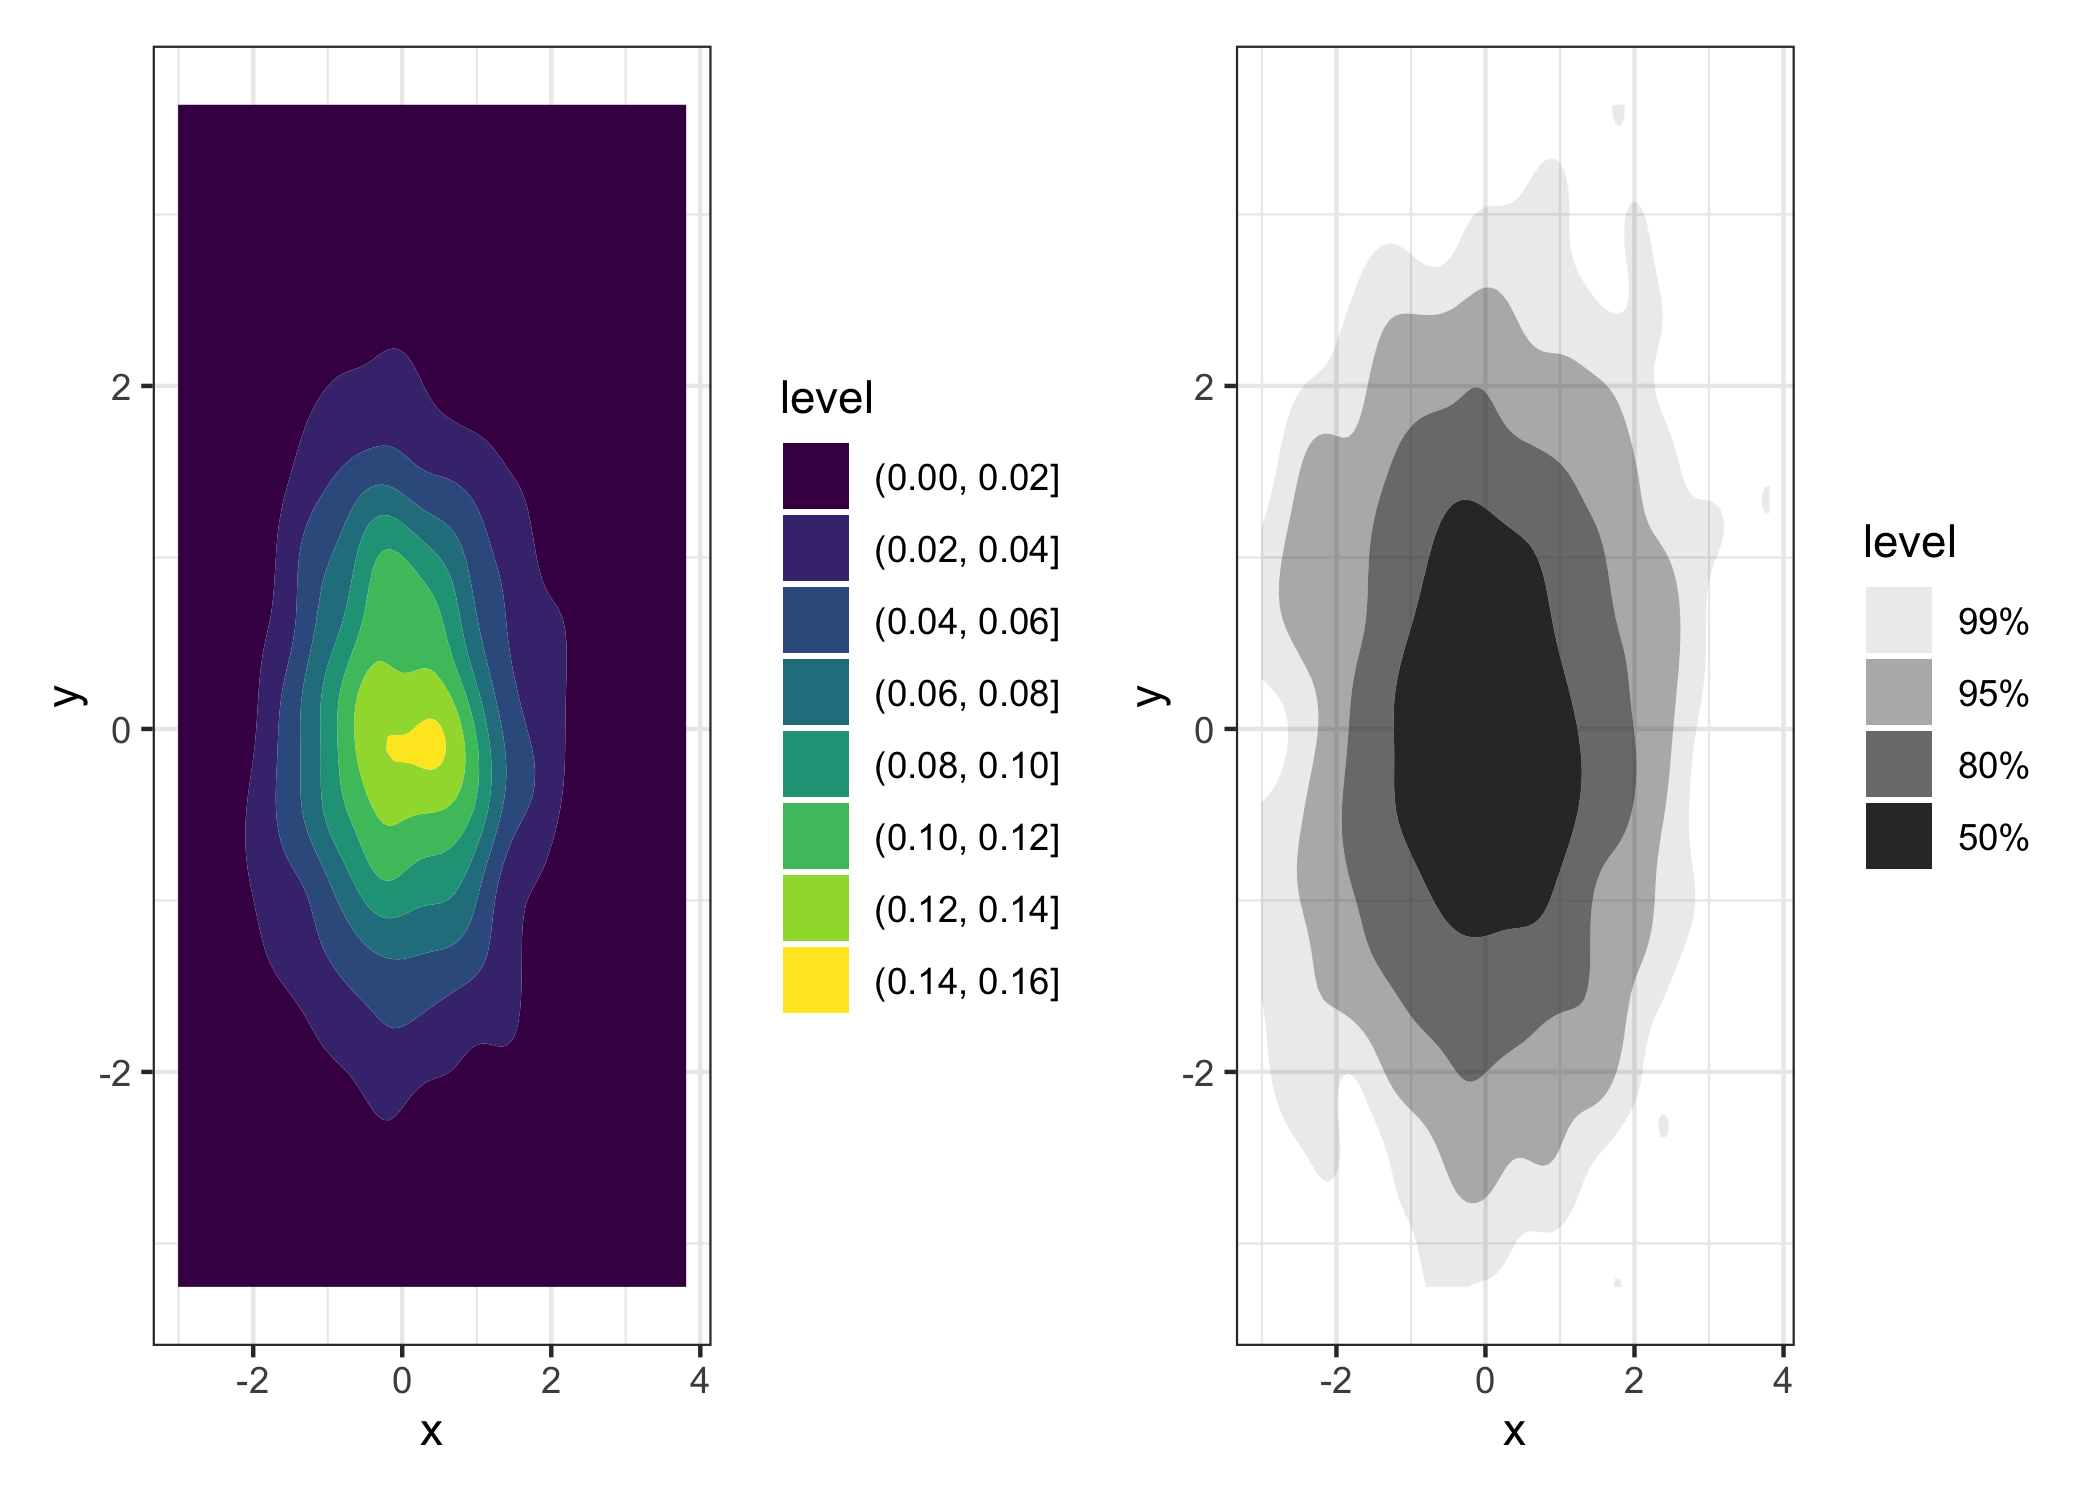
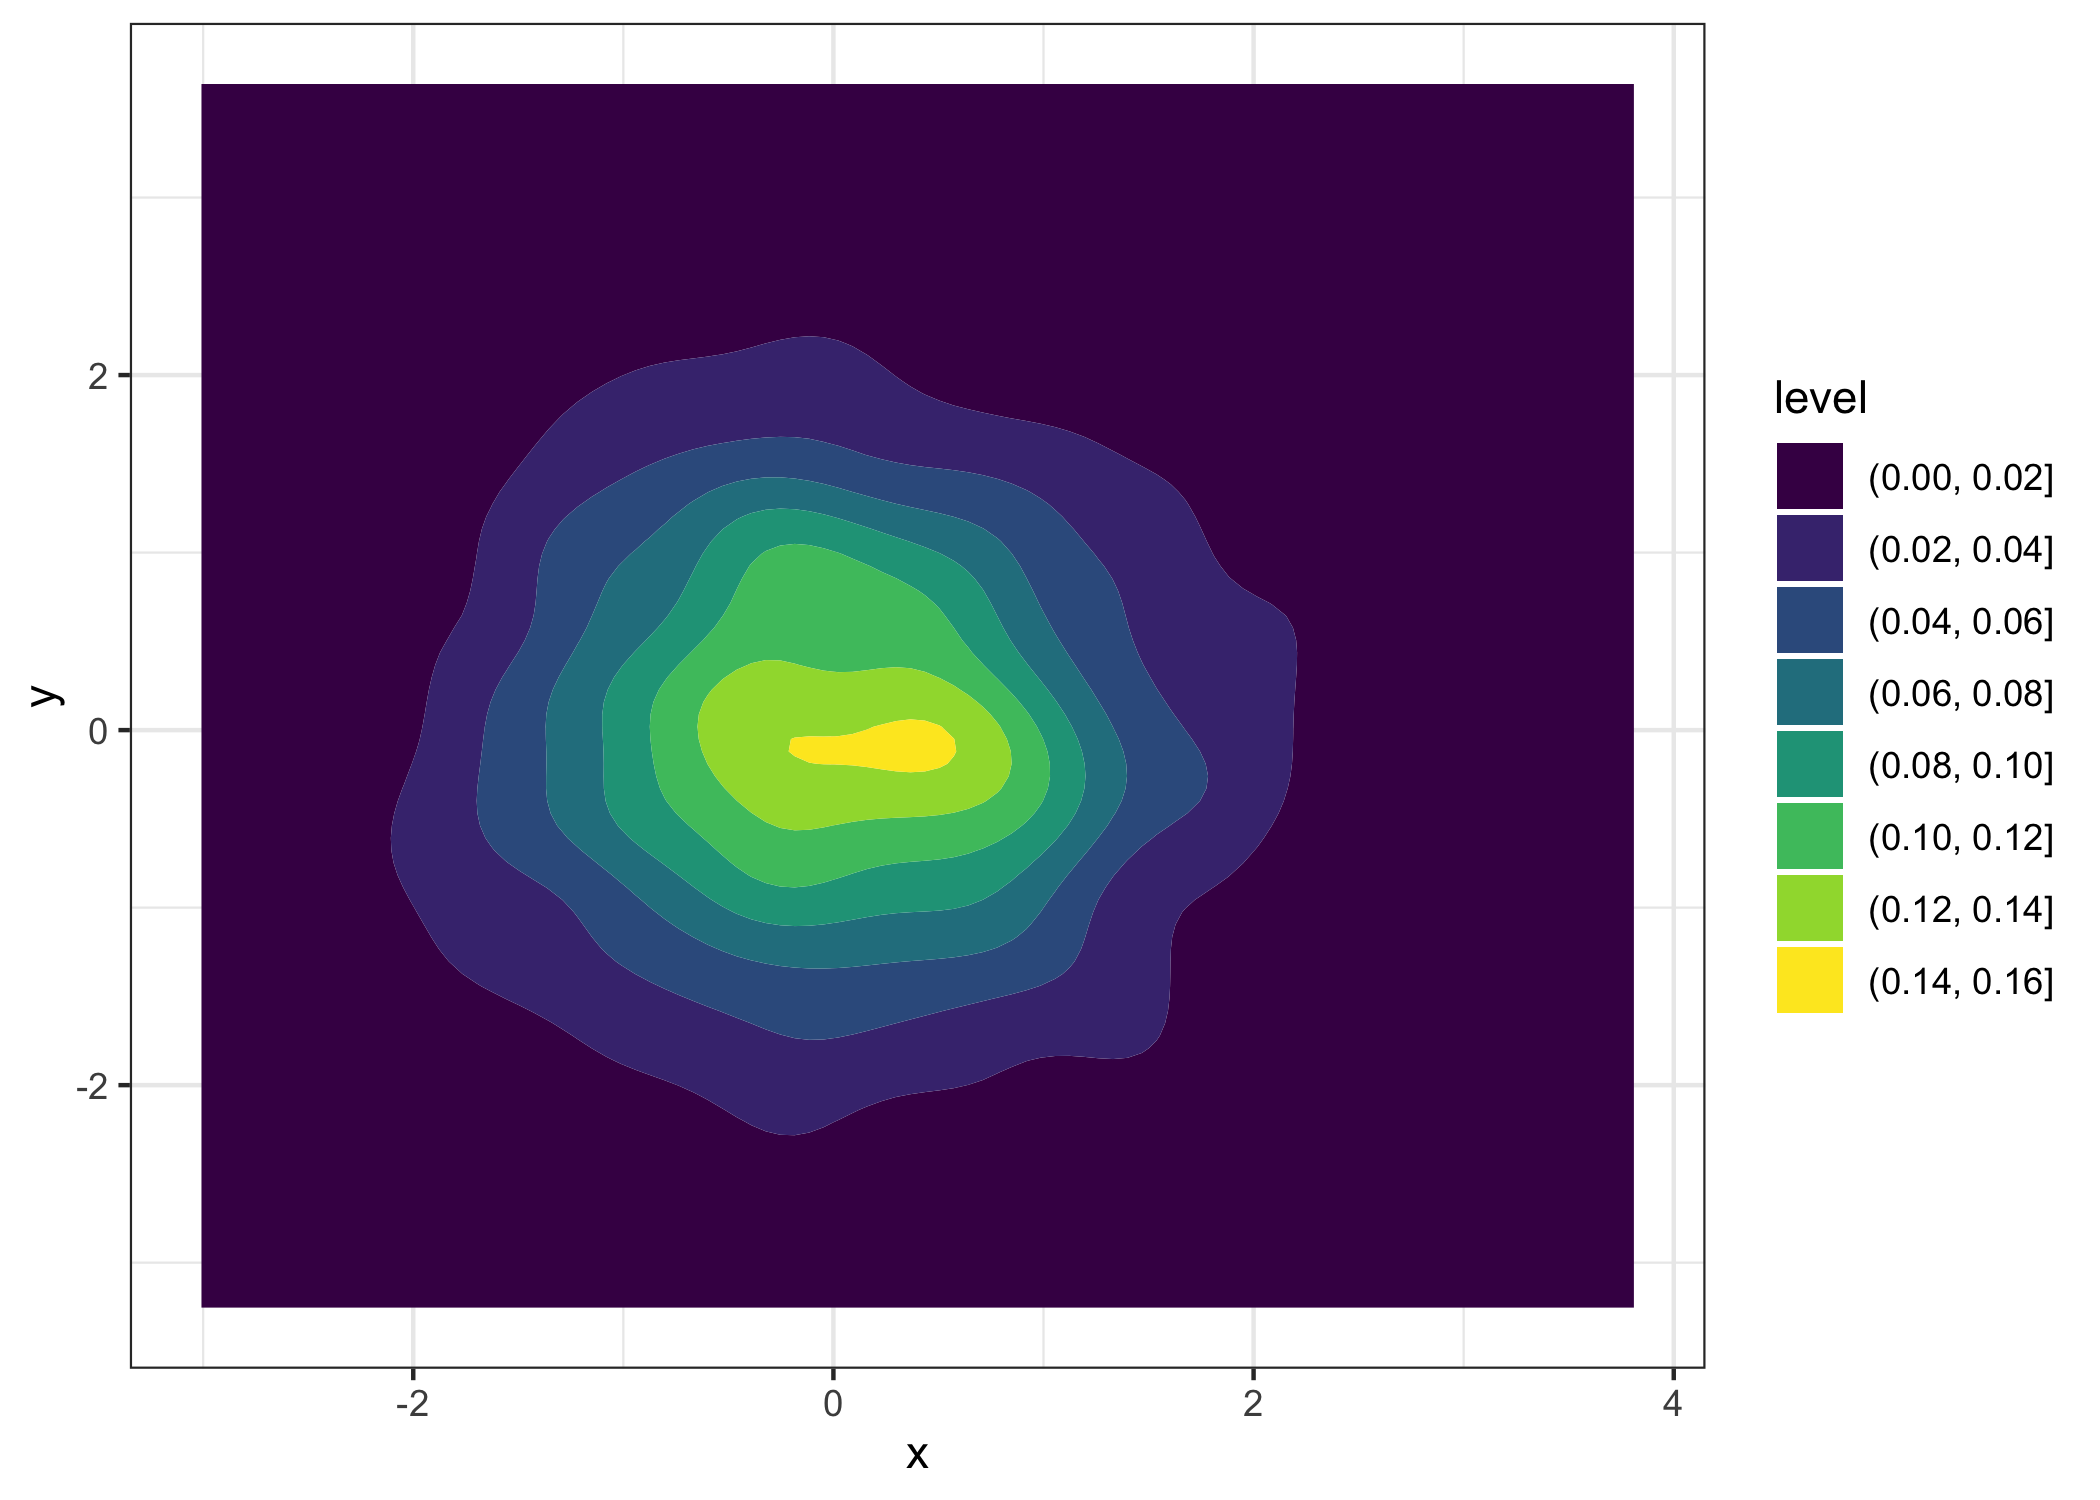
readme figs

diff --git a/README.md b/README.md
@@ -45,19 +45,28 @@ smallest regions containing 50%, 80%, 95%, and 99% of the estimated
 density (the HDRs). This results in a very interpretable graphic,
 conveying more information than arbitrary density contours.
 
+<!-- ```{r ex1, fig.show="hold", out.width="100%"} -->
+
 ``` r
 library("ggplot2"); theme_set(theme_bw())
 library("ggdensity")
-library("patchwork") 
 
 df <- data.frame("x" = rnorm(1000), "y" = rnorm(1000))
 
-p_ggplot    <- ggplot(df, aes(x, y)) + geom_density_2d_filled()
-p_ggdensity <- ggplot(df, aes(x, y)) + geom_hdr()
-p_ggplot + p_ggdensity
+ggplot(df, aes(x, y)) + geom_density_2d_filled()
 ```
 
 <img src="man/figures/README-ex1-1.png" width="100%" />
+
+``` r
+ggplot(df, aes(x, y)) + geom_hdr()
+```
+
+<img src="man/figures/README-ex1-2.png" width="100%" />
+
+<!-- p_ggplot    <- ggplot(df, aes(x, y)) + geom_density_2d_filled() -->
+<!-- p_ggdensity <- ggplot(df, aes(x, y)) + geom_hdr() -->
+<!-- p_ggplot + p_ggdensity -->
 
 #### Grouping
 
